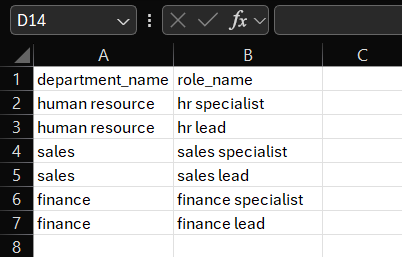
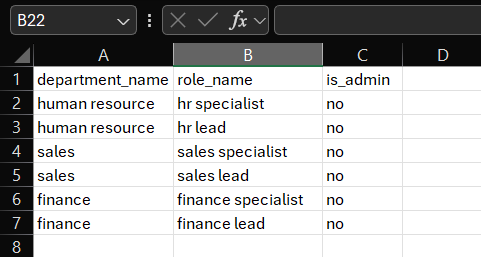
Show admin flag in roles table

diff --git a/frontend/src/app/components/admin-dashboard.tsx b/frontend/src/app/components/admin-dashboard.tsx
@@ -1972,10 +1972,11 @@ export function AdminDashboard({ currentUser }: AdminDashboardProps) {
                 <Table className={tableClass}>
                   <TableHeader>
                     <TableRow>
-                      <TableHead className="w-[25%]">Department</TableHead>
-                      <TableHead className="w-[25%]">Role Name</TableHead>
-                      <TableHead className="w-[22%]">Role Key</TableHead>
-                      <TableHead className="w-[12%]">Status</TableHead>
+                      <TableHead className="w-[22%]">Department</TableHead>
+                      <TableHead className="w-[22%]">Role Name</TableHead>
+                      <TableHead className="w-[20%]">Role Key</TableHead>
+                      <TableHead className="w-[12%]">Admin</TableHead>
+                      <TableHead className="w-[10%]">Status</TableHead>
                       <TableHead className={actionCellClass}>Action</TableHead>
                     </TableRow>
                   </TableHeader>
@@ -1984,7 +1985,7 @@ export function AdminDashboard({ currentUser }: AdminDashboardProps) {
                     {groupedRoleRows.length === 0 ? (
                       <TableRow>
                         <TableCell
-                          colSpan={5}
+                          colSpan={6}
                           className="text-center text-gray-500 py-6"
                         >
                           No roles found. Use Add Role or Import CSV to add
@@ -2012,6 +2013,18 @@ export function AdminDashboard({ currentUser }: AdminDashboardProps) {
 
                           <TableCell className="truncate">
                             {row.row_type === "role" ? row.role_key : ""}
+                          </TableCell>
+
+                          <TableCell>
+                            {row.row_type === "role" ? (
+                              <Badge
+                                variant={row.is_admin ? "default" : "secondary"}
+                              >
+                                {row.is_admin ? "Yes" : "No"}
+                              </Badge>
+                            ) : (
+                              ""
+                            )}
                           </TableCell>
 
                           <TableCell>
